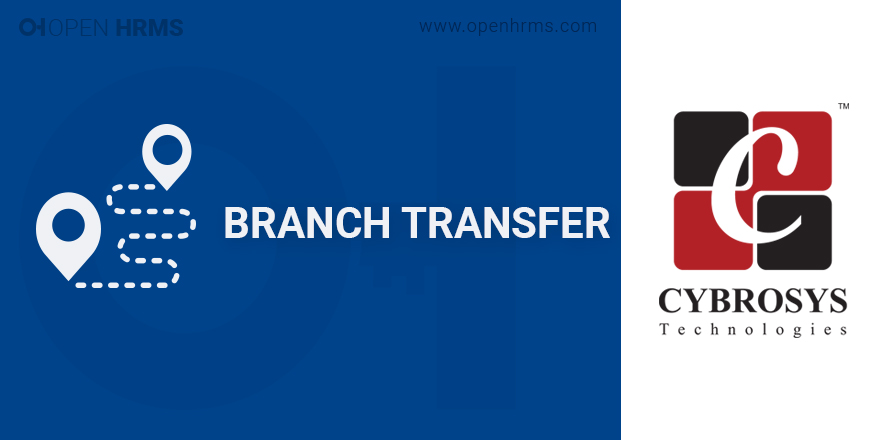
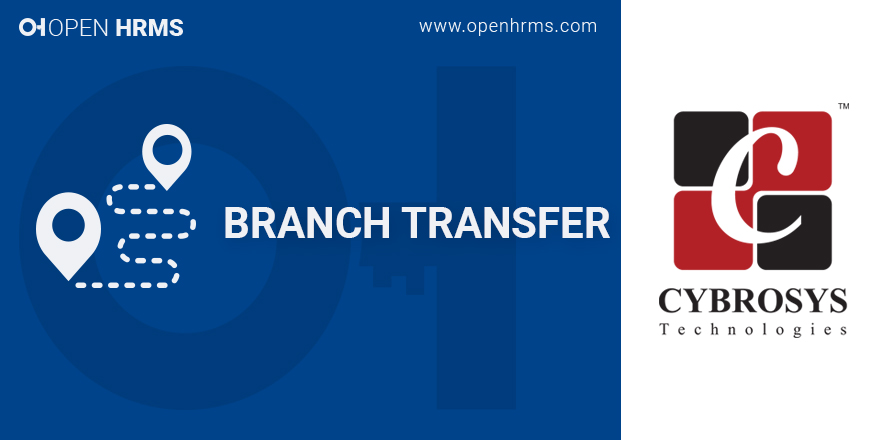
[UDT] Index Changed

Changed region(s): [[0.0, 0.0295, 0.2148, 0.0886], [0.4602, 0.0295, 0.675, 0.0886]]

diff --git a/hr_vacation_mngmt/static/description/index.html b/hr_vacation_mngmt/static/description/index.html
@@ -1,6 +1,6 @@
 <section class="oe_container ">
     <div class="oe_row">
-        <h2 class="oe_slogan">OpenHRMS</h2>
+        <h2 class="oe_slogan">Open HRMS</h2>
         <h3 class="oe_slogan">Most advanced open source HR management software</h3>
     </div>
 </section>
@@ -17,7 +17,7 @@
 </section>
 <section class="oe_container oe_dark">
     <div class="oe_row oe_spaced">
-        <h2 class="oe_slogan">OHRMS Vacation Management</h2>
+        <h2 class="oe_slogan">Open HRMS Vacation Management</h2>
         <h3 class="oe_slogan">Manage Employee Vacation</h3>
         <h4 class="oe_slogan"><a href="https://www.cybrosys.com">Cybrosys Technologies</a></h4>
     </div>
@@ -43,6 +43,137 @@
                     This module extend Odoo default HR Holiday Management with extra features adaptable for managing employees vacation..
                 </p>
             </div>
+        </div>
+    </div>
+</section>
+
+<section class="oe_container">
+    <div class="oe_row oe_spaced">
+        <div style="text-align: center">
+            <p><h4 class="oe_slogan">Remaining & Overlapping Leaves</h4><p>
+        </div>
+        <div style="text-align: center">
+            <a href="https://www.cybrosys.com">
+                <div class="oe_demo oe_picture oe_screenshot">
+                    <img style="border:10px solid white;" src="ohrms_vacation_01.png">
+                </div>
+            </a>
+        </div>
+    </div>
+</section>
+
+<section class="oe_container">
+    <div class="oe_row oe_spaced">
+        <div style="text-align: center">
+            <p><h4 class="oe_slogan">Pending Tasks Update & Task Re-assign</h4><p>
+
+        </div>
+        <div style="text-align: center">
+            <p class="oe_mt32">
+                Employees can able to update their pending tasks on leave request
+            </p>
+            <a href="https://www.cybrosys.com">
+                <div class="oe_demo oe_picture oe_screenshot">
+                    <img style="border:10px solid white;" src="ohrms_vacation_02.png">
+                </div>
+            </a>
+        </div>
+
+        <div style="text-align: center">
+            <p class="oe_mt32">
+                On leave request approval it opens a wizard to re-assign tasks to available employees.
+            </p>
+            <a href="https://www.cybrosys.com">
+                <div class="oe_demo oe_picture oe_screenshot">
+                    <img style="border:10px solid white;" src="ohrms_vacation_03.png">
+                </div>
+            </a>
+        </div>
+    </div>
+</section>
+
+<section class="oe_container">
+    <div class="oe_row oe_spaced">
+        <div style="text-align: center">
+            <p><h4 class="oe_slogan">Flight Ticket Booking</h4><p>
+        </div>
+        <div style="text-align: center">
+            <p class="oe_mt32">
+                HR managers can able to book the flight ticket for the employee.
+            </p>
+            <a href="https://www.cybrosys.com">
+                <div class="oe_demo oe_picture oe_screenshot">
+                    <img style="border:10px solid white;" src="ohrms_vacation_04.png">
+                </div>
+            </a>
+        </div>
+        <div style="text-align: center">
+            <a href="https://www.cybrosys.com">
+                <div class="oe_demo oe_picture oe_screenshot">
+                    <img style="border:10px solid white;" src="ohrms_vacation_05.png">
+                </div>
+            </a>
+        </div>
+        <div style="text-align: center">
+            <a href="https://www.cybrosys.com">
+                <div class="oe_demo oe_picture oe_screenshot">
+                    <img style="border:10px solid white;" src="ohrms_vacation_06.png">
+                </div>
+            </a>
+        </div>
+        <div style="text-align: center">
+            <a href="https://www.cybrosys.com">
+                <div class="oe_demo oe_picture oe_screenshot">
+                    <img style="border:10px solid white;" src="ohrms_vacation_07.png">
+                </div>
+            </a>
+        </div>
+        <div style="text-align: center">
+            <p class="oe_mt32">
+                On confirming the flight ticket generate corresponding supplier invoice.
+            </p>
+            <a href="https://www.cybrosys.com">
+                <div class="oe_demo oe_picture oe_screenshot">
+                    <img style="border:10px solid white;" src="ohrms_vacation_08.png">
+                </div>
+            </a>
+        </div>
+    </div>
+</section>
+
+<section class="oe_container">
+    <div class="oe_row oe_spaced">
+        <div style="text-align: center">
+            <p><h4 class="oe_slogan">Leave Salary</h4><p>
+        </div>
+        <div style="text-align: center">
+            <a href="https://www.cybrosys.com">
+                <div class="oe_demo oe_picture oe_screenshot">
+                    <img style="border:10px solid white;" src="ohrms_vacation_09.png">
+                </div>
+            </a>
+        </div>
+    </div>
+</section>
+
+<section class="oe_container">
+    <div class="oe_row oe_spaced">
+        <div style="text-align: center">
+            <p><h4 class="oe_slogan">Configurations</h4><p>
+        </div>
+        <div style="text-align: center">
+            <a href="https://www.cybrosys.com">
+                <div class="oe_demo oe_picture oe_screenshot">
+                    <img style="border:10px solid white;" src="ohrms_vacation_10.png">
+                </div>
+            </a>
+        </div>
+        <div style="text-align: center">
+            <a href="https://www.cybrosys.com">
+                <div class="oe_demo oe_picture oe_screenshot">
+                    <img style="border:10px solid white;" src="ohrms_vacation_11.png">
+                </div>
+            </a>
         </div>
     </div>
 </section>

diff --git a/hr_employee_transfer/static/description/index.html b/hr_employee_transfer/static/description/index.html
@@ -1,7 +1,7 @@
 
 <section class="oe_container oe_dark">
     <div class="oe_row oe_spaced">
-        <h2 class="oe_slogan">OpenHRMS</h2>
+        <h2 class="oe_slogan">Open HRMS</h2>
         <h3 class="oe_slogan">Most advanced open source HR management software</h3>
     </div>
 </section>
@@ -12,7 +12,6 @@
                 <a href="https://www.openhrms.com/#request-demo">
                     <img src="HRMS-BUTTON.png">
                 </a>
-                <div class="oe_demo_footer oe_centeralign">Online Demo</div>
             </div>
         </div>
     </div>

diff --git a/hr_vacation_mngmt/__manifest__.py b/hr_vacation_mngmt/__manifest__.py
@@ -1,6 +1,6 @@
 # -*- coding: utf-8 -*-
 ###################################################################################
-#    A part of OpenHrms Project <https://www.openhrms.co.uk>
+#    A part of Open Hrms Project <https://www.openhrms.co.uk>
 #
 #    Cybrosys Technologies Pvt. Ltd.
 #    Copyright (C) 2018-TODAY Cybrosys Technologies (<https://www.cybrosys.com>).
@@ -21,7 +21,7 @@
 #
 ###################################################################################
 {
-    'name': "OHRMS Vacation Management",
+    'name': "Open HRMS Vacation Management",
     'version': '10.0.1.0.0',
     'summary': """Manage Employee Vacation""",
     'description': """HR Vacation management""",
@@ -29,7 +29,7 @@
     'company': 'Cybrosys Techno Solutions',
     'website': 'https://www.openhrms.com',
     'category': 'Generic Modules/Human Resources',
-    'depends': ['hr_holidays', 'project', 'hr_payroll', 'account'],
+    'depends': ['hr_leave_request_aliasing', 'project', 'hr_payroll', 'account'],
     'data': [
         'security/hr_vacation_security.xml',
         'security/ir.model.access.csv',

diff --git a/hr_employee_transfer/__manifest__.py b/hr_employee_transfer/__manifest__.py
@@ -1,6 +1,6 @@
 # -*- coding: utf-8 -*-
 ###################################################################################
-#    A part of OpenHRMS Project <https://www.openhrms.com>
+#    A part of Open HRMS Project <https://www.openhrms.com>
 #
 #    Cybrosys Technologies Pvt. Ltd.
 #    Copyright (C) 2018-TODAY Cybrosys Technologies (<https://www.cybrosys.com>).
@@ -21,10 +21,10 @@
 #
 ###################################################################################
 {
-    'name': 'OHRMS Branch Transfer',
+    'name': 'Open HRMS Branch Transfer',
     'version': '10.0.1.0.0',
     'summary': 'Employee transfer between branches',
-    'category': 'Employees',
+    'category': 'Generic Modules/Human Resources',
     'author': 'Cybrosys Techno solutions',
     'maintainer': 'Cybrosys Techno Solutions',
     'company': 'Cybrosys Techno Solutions',

diff --git a/hr_vacation_mngmt/models/hr_vacation.py b/hr_vacation_mngmt/models/hr_vacation.py
@@ -16,7 +16,7 @@ class HrLeaveRequest(models.Model):
 
     @api.one
     def get_overlapping_leaves(self):
-        if self.type == 'remove':
+        if self.type == 'remove' and self.date_from and self.date_to:
             overlap_leaves = []
             from_date = datetime.strptime(self.date_from, '%Y-%m-%d %H:%M:%S').date()
             to_date = datetime.strptime(self.date_to, '%Y-%m-%d %H:%M:%S').date()
@@ -126,8 +126,7 @@ class PendingTask(models.Model):
 
 
 class HrVacationConfigSettings(models.TransientModel):
-    _name = 'hr.vacation.config.settings'
-    _inherit = 'res.config.settings'
+    _inherit = 'hr.leave.config.settings'
 
     leave_reminder = fields.Boolean(string='Leave Reminder Email', help="Send leave remainder emails to hr managers")
     reminder_day_before = fields.Integer(string='Reminder Day Before')
